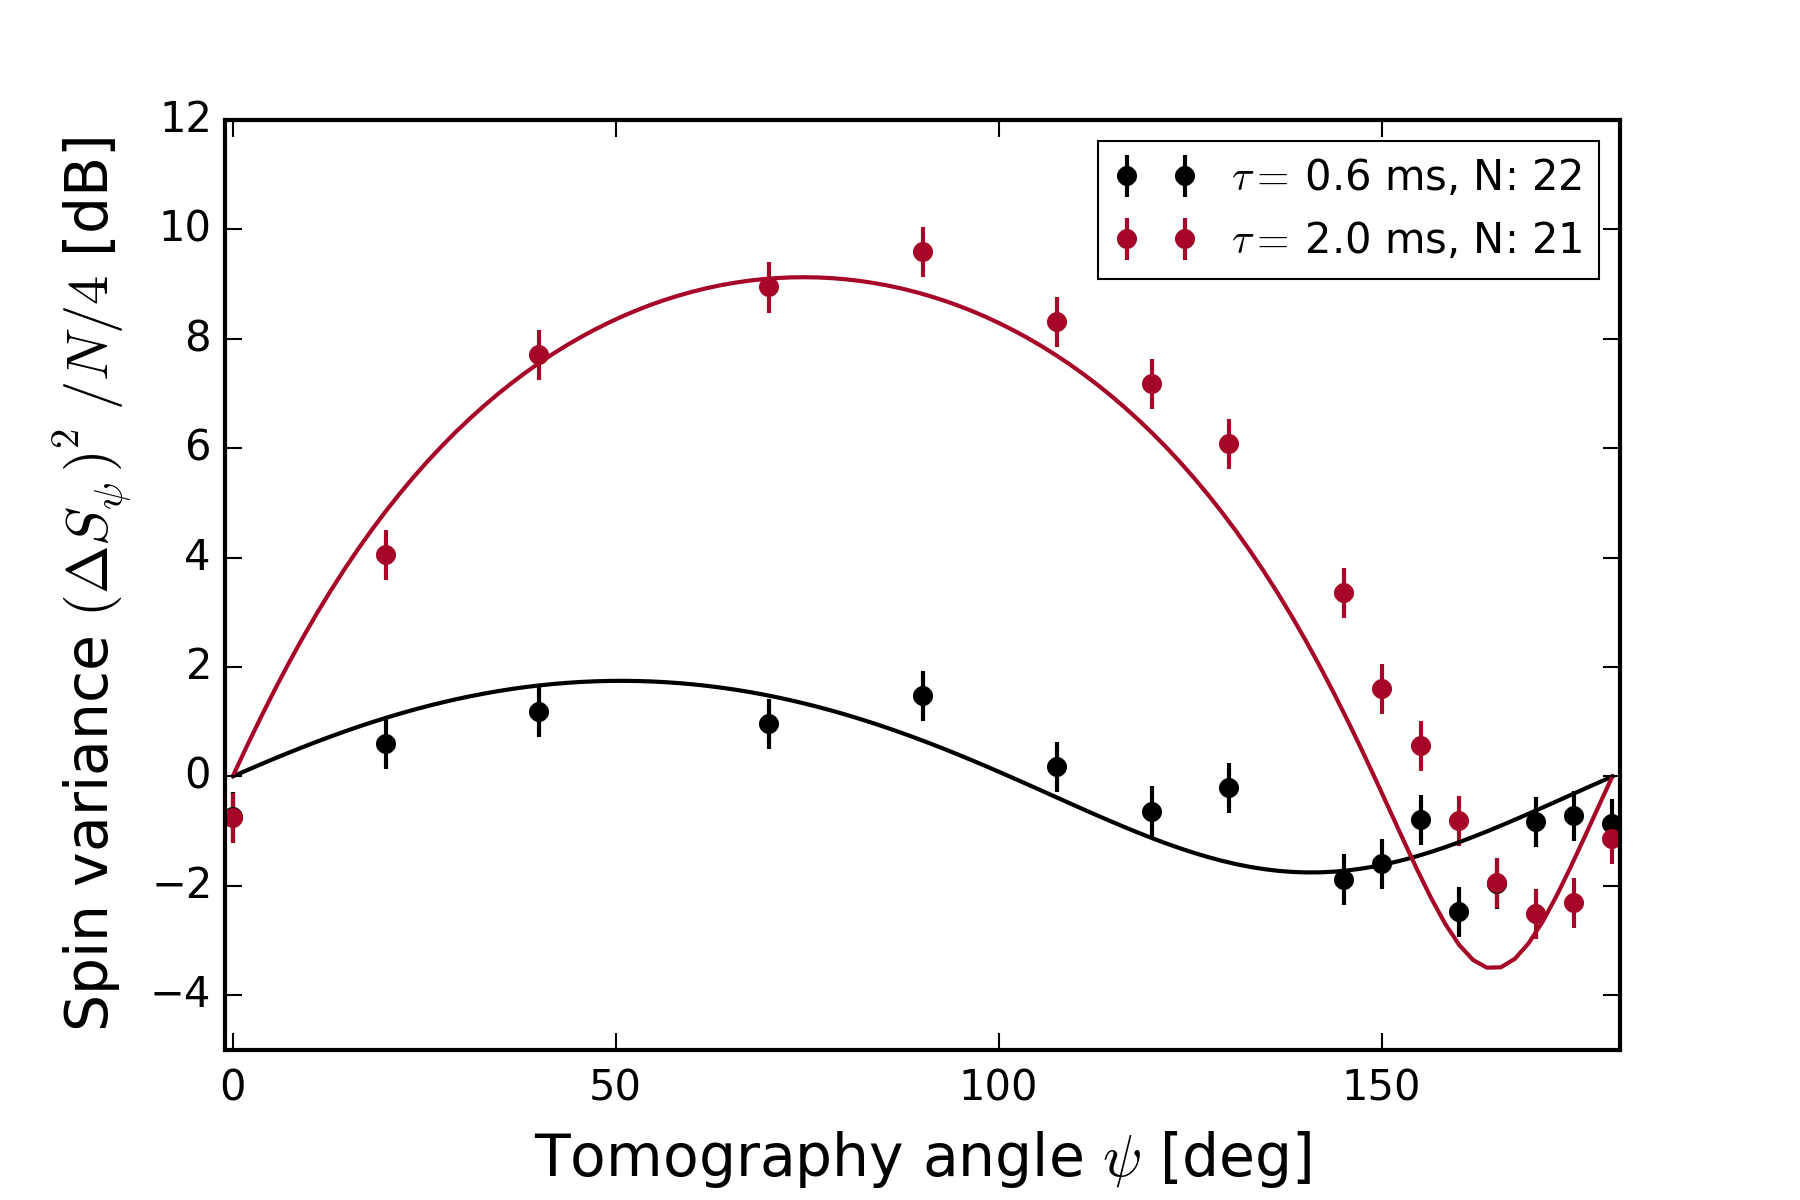
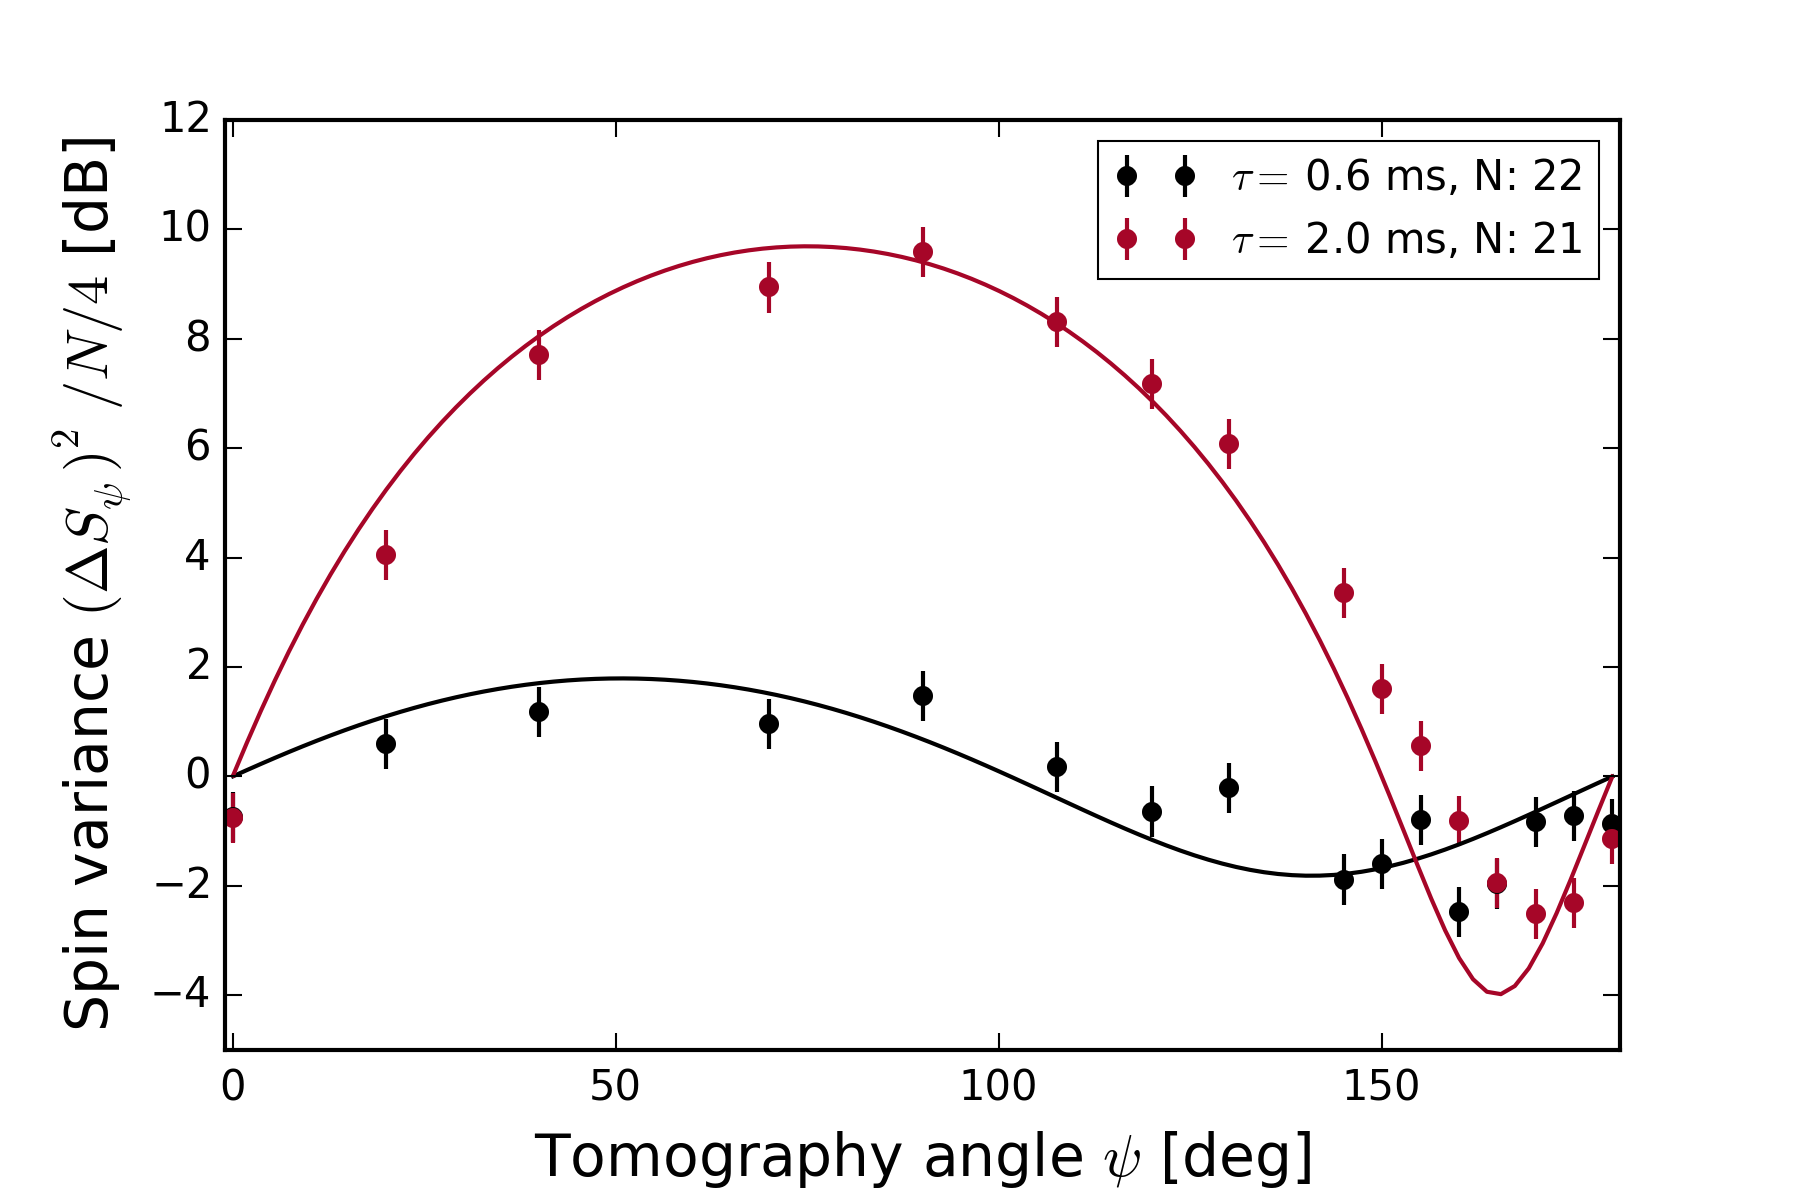
!! Update decay 8/11 squeeze

diff --git a/paper_figs/penning_squeeze/SE_squeeze_Batch_8_11_fig.py b/paper_figs/penning_squeeze/SE_squeeze_Batch_8_11_fig.py
@@ -120,10 +120,9 @@ plt.legend(loc=0,fontsize=10)
 
 #________________________________________________________________________
 #add some theory curves
-mult = 2
-G_el = mult* 60.56
-G_ud = mult* 9.075
-G_du = mult* 6.413
+G_el =  57.1
+G_ud =  8.56
+G_du =  6.05
 
 psi = np.linspace(0.001,pi,num=100) # radians
 
